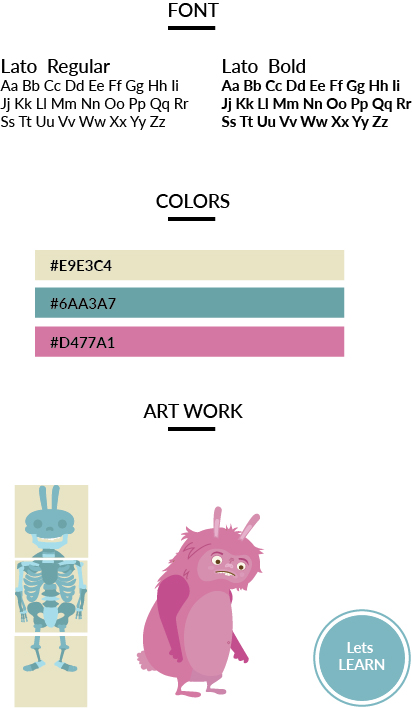
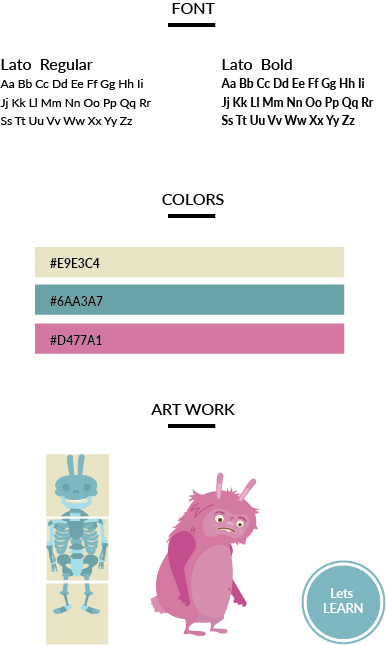
added an image with to all the images

diff --git a/css/main.css b/css/main.css
@@ -223,8 +223,9 @@ a:hover, a:visited, a:link, a:active {
 .placeholder { 
 	padding: 0; 
 	margin: 0;
-	width: 100%; 
+	width: 500px; 
 	height: auto;
+	text-align: center;
 }
 
 .btn-behance {
